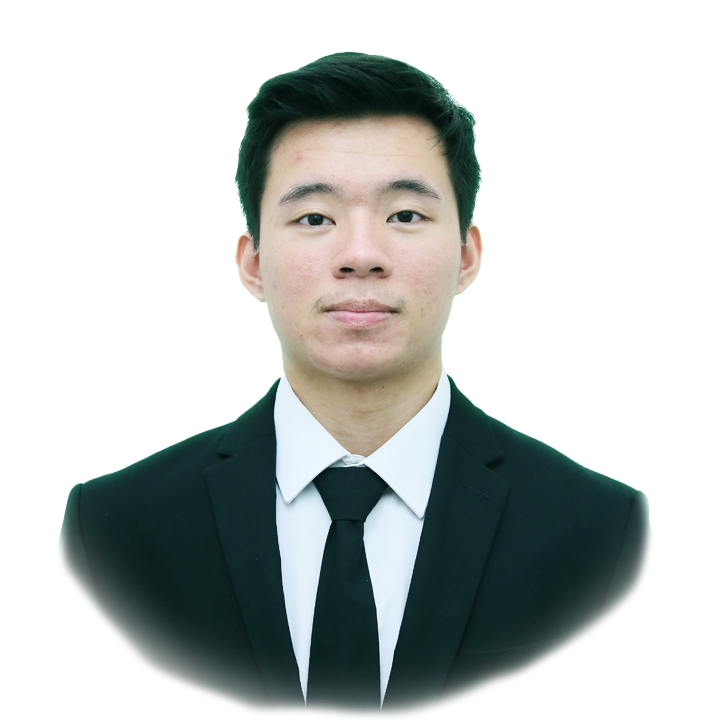
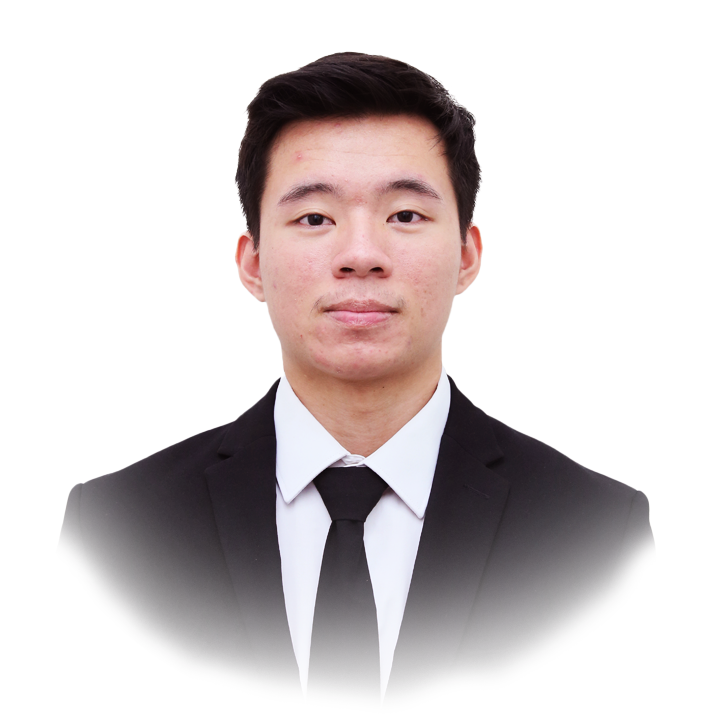
Changed theme color

diff --git a/app/work/page.jsx b/app/work/page.jsx
@@ -41,25 +41,25 @@ export default function Work() {
               <div className="text-8xl leading-none font-extrabold text-transparent text-outline">
                 {project.num}
               </div>
-              <h2 className="text-[42px] font-bold leading-none text-white group-hover:text-accent transition-all duration-300 capitalize">
+              <h2 className="text-[42px] font-bold leading-none text-secondary group-hover:text-accent transition-all duration-300 capitalize">
                 {project.category} project
               </h2>
-              <p className="text-white/60">{project.description}</p>
+              <p className="text-secondary/60">{project.description}</p>
               <ul className="flex flex-wrap gap-3 text-lg text-primary">
                 {project.stack.map((value, index) => (
                   <li key={index} className="bg-accent px-1.5">{value}</li>
                 ))}
               </ul>
 
-              <hr className="border border-white/60" />
+              <hr className="border border-secondary/60" />
 
               {/* Buttons */}
               <div className="flex items-center gap-4">
                 <Link href={project.live}>
                   <TooltipProvider delayDuration={100}>
                     <Tooltip>
-                      <TooltipTrigger className="w-[70px] aspect-square rounded-full bg-white/5 flex justify-center items-center group">
-                        <BsArrowUpRight className="text-white text-3xl group-hover:text-accent" />
+                      <TooltipTrigger className="w-[70px] aspect-square rounded-full bg-secondary/5 flex justify-center items-center group">
+                        <BsArrowUpRight className="text-secondary text-3xl group-hover:text-accent" />
                       </TooltipTrigger>
                       <TooltipContent>
                         <p>Live project</p>
@@ -70,8 +70,8 @@ export default function Work() {
                 <Link href={project.repository}>
                   <TooltipProvider delayDuration={100}>
                     <Tooltip>
-                      <TooltipTrigger className="w-[70px] aspect-square rounded-full bg-white/5 flex justify-center items-center group">
-                        <BsGithub className="text-white text-3xl group-hover:text-accent" />
+                      <TooltipTrigger className="w-[70px] aspect-square rounded-full bg-secondary/5 flex justify-center items-center group">
+                        <BsGithub className="text-secondary text-3xl group-hover:text-accent" />
                       </TooltipTrigger>
                       <TooltipContent>
                         <p>Github repository</p>
@@ -92,15 +92,13 @@ export default function Work() {
               {projects.map((project, index) => (
                 <SwiperSlide key={index} className="w-full">
                   <div className="h-[460px] relative group flex justify-center items-center bg-pink-50/20">
-                    {/* Overlay */}
-                    <div className="absolute top-0 bottom-0 w-full h-full bg-black/10 z-10"></div>
                     {/* Image */}
                     <div>
                       <Image
                         src={project.image}
                         alt={project.title}
                         fill
-                        className="object-cover"
+                        className="object-cover shadow-md"
                       />
                     </div>
                   </div>

diff --git a/components/ui/select.jsx b/components/ui/select.jsx
@@ -16,7 +16,7 @@ const SelectTrigger = React.forwardRef(({ className, children, ...props }, ref) 
   <SelectPrimitive.Trigger
     ref={ref}
     className={cn(
-      "flex h-[48px] w-full items-center justify-between rounded-md border border-white/10 bg-primary px-4 py-5 text-base text-white/60 placeholder:text-white/10 focus:border-accent outline-none",
+      "flex h-[48px] w-full items-center justify-between rounded-md border border-secondary/10 bg-primary px-4 py-5 text-base text-secondary/60 placeholder:text-secondary/10 focus:border-accent outline-none",
       className
     )}
     {...props}>
@@ -54,7 +54,7 @@ const SelectContent = React.forwardRef(({ className, children, position = "poppe
     <SelectPrimitive.Content
       ref={ref}
       className={cn(
-        "relative z-50 max-h-96 min-w-[8rem] overflow-hidden rounded-md border border-white/10 bg-primary text-white shadow-md data-[state=open]:animate-in data-[state=closed]:animate-out data-[state=closed]:fade-out-0 data-[state=open]:fade-in-0 data-[state=closed]:zoom-out-95 data-[state=open]:zoom-in-95 data-[side=bottom]:slide-in-from-top-2 data-[side=left]:slide-in-from-right-2 data-[side=right]:slide-in-from-left-2 data-[side=top]:slide-in-from-bottom-2 dark:border-slate-800 dark:bg-slate-950 dark:text-slate-50",
+        "relative z-50 max-h-96 min-w-[8rem] overflow-hidden rounded-md border border-secondary/10 bg-primary text-secondary shadow-md data-[state=open]:animate-in data-[state=closed]:animate-out data-[state=closed]:fade-out-0 data-[state=open]:fade-in-0 data-[state=closed]:zoom-out-95 data-[state=open]:zoom-in-95 data-[side=bottom]:slide-in-from-top-2 data-[side=left]:slide-in-from-right-2 data-[side=right]:slide-in-from-left-2 data-[side=top]:slide-in-from-bottom-2 dark:border-slate-800 dark:bg-slate-950 dark:text-slate-50",
         position === "popper" &&
           "data-[side=bottom]:translate-y-1 data-[side=left]:-translate-x-1 data-[side=right]:translate-x-1 data-[side=top]:-translate-y-1",
         className

diff --git a/app/contact/page.jsx b/app/contact/page.jsx
@@ -23,9 +23,9 @@ export default function Contact() {
         <div className="flex flex-col xl:flex-row gap-[30px]">
           {/* Form */}
           <div className="xl:w-[54%] order-2 xl:order-none">
-            <form className="flex flex-col gap-6 p-10 bg-[#27272C] rounded-xl">
+            <form className="flex flex-col gap-6 p-10 bg-[#EEEEEE] rounded-xl">
               <h3 className="h3 text-accent">Let&apos;s work together!</h3>
-              <p className="text-white/60">Lorem ipsum dolor sit amet consectetur, adipisicing elit. Dolor iste sed recusandae eum, ratione quisquam!</p>
+              <p className="text-secondary/60">Lorem ipsum dolor sit amet consectetur, adipisicing elit. Dolor iste sed recusandae eum, ratione quisquam!</p>
               {/* Input */}
               <div className="grid gird-cols-1 md:grid-cols-2 gap-6">
                 <Input type="fullName" placeholder="Full Name" />
@@ -64,11 +64,11 @@ export default function Contact() {
             <ul className="flex flex-col gap-10">
               {info.map(({ icon, title, description }, index) => (
                 <li key={index} className="flex items-center gap-6">
-                  <div className="w-[52px] xl:w-[72px] aspect-square bg-[#27272C] text-accent flex items-center justify-center rounded-md">
+                  <div className="w-[52px] xl:w-[72px] aspect-square bg-[#EEEEEE] text-accent flex items-center justify-center rounded-md">
                     <div className="text-[28px]">{icon}</div>
                   </div>
                   <div className="flex-1">
-                    <p className="text-white/60">{title}</p>
+                    <p className="text-secondary/60">{title}</p>
                     <h3 className="text-xl">{description}</h3>
                   </div>
                 </li>

diff --git a/components/resume/Educations.jsx b/components/resume/Educations.jsx
@@ -7,20 +7,20 @@ export default function Educations() {
       <h3 className="h3">
         {educations.title}
       </h3>
-      <p className="max-w-[600px] text-white/60 mx-auto xl:mx-0">
+      <p className="max-w-[600px] text-secondary/60 mx-auto xl:mx-0">
         {educations.description}
       </p>
       <ScrollArea className="h-[400px]">
         <ul className="grid grid-cols-1 lg:grid-cols-2 gap-[30px]">
           {educations.items.map(({ institution, degree, duration }, index) => (
-            <li key={index} className="bg-[#232329] h-[184px] py-6 px-10 rounded-xl flex flex-col justify-center items-center lg:items-start gap-1">
+            <li key={index} className="bg-[#EEEEEE] h-[184px] py-6 px-10 rounded-xl flex flex-col justify-center items-center lg:items-start gap-1">
               <span className="text-accent">{duration}</span>
               <h4 className="text-xl max-w-[260px] min-h-[60px] text-center lg:text-left">
                 {degree}
               </h4>
               <div className="flex items-center gap-3">
                 <span className="w-[6px] aspect-square bg-accent rounded-full"></span>
-                <p className="text-white/60 leading-normal">{institution}</p>
+                <p className="text-secondary/60 leading-normal">{institution}</p>
               </div>
             </li>
           ))}

diff --git a/components/resume/Experiences.jsx b/components/resume/Experiences.jsx
@@ -7,20 +7,20 @@ export default function Experiences() {
       <h3 className="h3">
         {experiences.title}
       </h3>
-      <p className="max-w-[600px] text-white/60 mx-auto xl:mx-0">
+      <p className="max-w-[600px] text-secondary/60 mx-auto xl:mx-0">
         {experiences.description}
       </p>
       <ScrollArea className="h-[400px]">
         <ul className="grid grid-cols-1 lg:grid-cols-2 gap-[30px]">
           {experiences.items.map(({ company, position, duration }, index) => (
-            <li key={index} className="bg-[#232329] h-[184px] py-6 px-10 rounded-xl flex flex-col justify-center items-center lg:items-start gap-1">
+            <li key={index} className="bg-[#EEEEEE] h-[184px] py-6 px-10 rounded-xl flex flex-col justify-center items-center lg:items-start gap-1">
               <span className="text-accent">{duration}</span>
               <h4 className="text-xl max-w-[260px] min-h-[60px] text-center lg:text-left">
                 {position}
               </h4>
               <div className="flex items-center gap-3">
                 <span className="w-[6px] aspect-square bg-accent rounded-full"></span>
-                <p className="text-white/60 leading-normal">{company}</p>
+                <p className="text-secondary/60 leading-normal">{company}</p>
               </div>
             </li>
           ))}

diff --git a/components/service/ExperienceCard.jsx b/components/service/ExperienceCard.jsx
@@ -8,17 +8,17 @@ export default function ExperienceCard({ service: { num, href, title, descriptio
         <div className="text-5xl font-extrabold text-outline text-transparent group-hover:text-outline-hover transition-all duration-300">{num}</div>
         <Link
           href={href}
-          className="w-[70px] aspect-square rounded-full bg-white group-hover:bg-accent transition-all duration-300 flex items-center justify-center hover:-rotate-45"
+          className="w-[70px] aspect-square rounded-full bg-secondary group-hover:bg-accent transition-all duration-300 flex items-center justify-center hover:-rotate-45"
           target="_blank"
         >
           <BsArrowDownRight className="text-primary text-3xl" />
         </Link>
       </div>
-      <h2 className="text-[42px] font-bold leading-none text-white group-hover:text-accent transition-all duration-300">
+      <h2 className="text-[42px] font-bold leading-none text-secondary group-hover:text-accent transition-all duration-300">
         {title}
       </h2>
-      <p className="text-white/60">{description}</p>
-      <hr className="border-white/20 w-full" />
+      <p className="text-secondary/60">{description}</p>
+      <hr className="border-secondary/20 w-full" />
     </div>
   );
 };

diff --git a/components/resume/Skills.jsx b/components/resume/Skills.jsx
@@ -7,7 +7,7 @@ export default function Skills() {
     <div className="flex flex-col gap-[30px]">
       <div className="flex flex-col gap-[30px] text-center xl:text-left">
         <h3 className="h3">{skills.title}</h3>
-        <p className="max-w-[600px] text-white/60 mx-auto xl:mx-0">
+        <p className="max-w-[600px] text-secondary/60 mx-auto xl:mx-0">
           {skills.description}
         </p>
       </div>
@@ -17,7 +17,7 @@ export default function Skills() {
             <li key={index}>
               <TooltipProvider delayDuration={100}>
                 <Tooltip>
-                  <TooltipTrigger className="w-full aspect-square bg-[#232329] rounded-xl flex justify-center items-center group">
+                  <TooltipTrigger className="w-full aspect-square bg-[#EEEEEE] rounded-xl flex justify-center items-center group">
                     <div className="text-6xl group-hover:text-accent transition-all duration-300">{icon}</div>
                   </TooltipTrigger>
                   <TooltipContent>

diff --git a/components/ui/tabs.jsx b/components/ui/tabs.jsx
@@ -22,7 +22,7 @@ const TabsTrigger = React.forwardRef(({ className, ...props }, ref) => (
   <TabsPrimitive.Trigger
     ref={ref}
     className={cn(
-      "inline-flex items-center w-full bg-[#27272C] justify-center whitespace-nowrap text-white rounded-lg p-3 text-base font-medium ring-offset-white transition-all disabled:pointer-events-none disabled:opacity-50 data-[state=active]:bg-accent data-[state=active]:text-primary data-[state=active]:font-bold data-[state=active]:shadow-sm",
+      "inline-flex items-center w-full bg-[#EEEEEE] justify-center whitespace-nowrap text-secondary rounded-lg p-3 text-base font-medium ring-offset-white transition-all disabled:pointer-events-none disabled:opacity-50 data-[state=active]:bg-accent data-[state=active]:text-primary data-[state=active]:font-bold data-[state=active]:shadow-sm",
       className
     )}
     {...props} />

diff --git a/components/resume/About.jsx b/components/resume/About.jsx
@@ -4,11 +4,11 @@ export default function About() {
   return (
     <div className="flex flex-col gap-[30px]">
       <h3 className="h3">{about.title}</h3>
-      <p className="max-w-[600px] text-white/60 mx-auto xl:mx-0">{about.description}</p>
+      <p className="max-w-[600px] text-secondary/60 mx-auto xl:mx-0">{about.description}</p>
       <ul className="grid grid-cols-1 xl:grid-cols-2 gap-y-6 max-w-[620px] mx-auto xl:mx-0">
         {about.info.map(({ fieldName, fieldValue }, index) => (
           <li key={index} className="flex items-center justify-center xl:justify-start gap-4">
-            <span className="text-white/60">{fieldName}</span>
+            <span className="text-secondary/60">{fieldName}</span>
             <span className="text-xl">{fieldValue}</span>
           </li>
         ))}

diff --git a/components/ui/textarea.jsx b/components/ui/textarea.jsx
@@ -6,7 +6,7 @@ const Textarea = React.forwardRef(({ className, ...props }, ref) => {
   return (
     (<textarea
       className={cn(
-        "flex min-h-[80px] w-full rounded-md border border-white/10 bg-primary px-4 py-5 text-base placeholder:text-white/60 focus-visible:outline-none focus-visible:ring-1 focus-visible:ring-accent focus-visible:ring-offset-0 disabled:cursor-not-allowed disabled:opacity-50",
+        "flex min-h-[80px] w-full rounded-md border border-secondary/10 bg-primary px-4 py-5 text-base placeholder:text-secondary/60 focus-visible:outline-none focus-visible:ring-1 focus-visible:ring-accent focus-visible:ring-offset-0 disabled:cursor-not-allowed disabled:opacity-50",
         className
       )}
       ref={ref}

diff --git a/components/home/Photo.jsx b/components/home/Photo.jsx
@@ -22,7 +22,7 @@ export default function Photo() {
             opacity: 1,
             transition: { delay: 2, duration: 0.4, ease: "easeInOut" }
           }}
-          className="w-[298px] xl:w-[502px] aspect-square mix-blend-lighten absolute"
+          className="w-[298px] xl:w-[502px] aspect-square mix-blend-darken absolute"
         >
           <Image
             src={fotoRyu}
@@ -45,7 +45,7 @@ export default function Photo() {
             cx="253"
             cy="253"
             r="250"
-            stroke="#00ff99"
+            stroke="#CA2424"
             strokeWidth="4"
             strokeLinecap="round"
             strokeLinejoin="round"

diff --git a/app/layout.jsx b/app/layout.jsx
@@ -1,6 +1,7 @@
 import { Inter, JetBrains_Mono } from "next/font/google";
 import "./globals.css";
 import Header from "../components/common/Header";
+import Footer from "../components/common/Footer";
 import PageTransition from "../components/common/PageTransition";
 import StairTransition from "../components/common/StairTransition";
 
@@ -28,6 +29,7 @@ export default function RootLayout({ children }) {
         <Header />
         <StairTransition />
         <PageTransition>{children}</PageTransition>
+        <Footer />
       </body>
     </html>
   );
